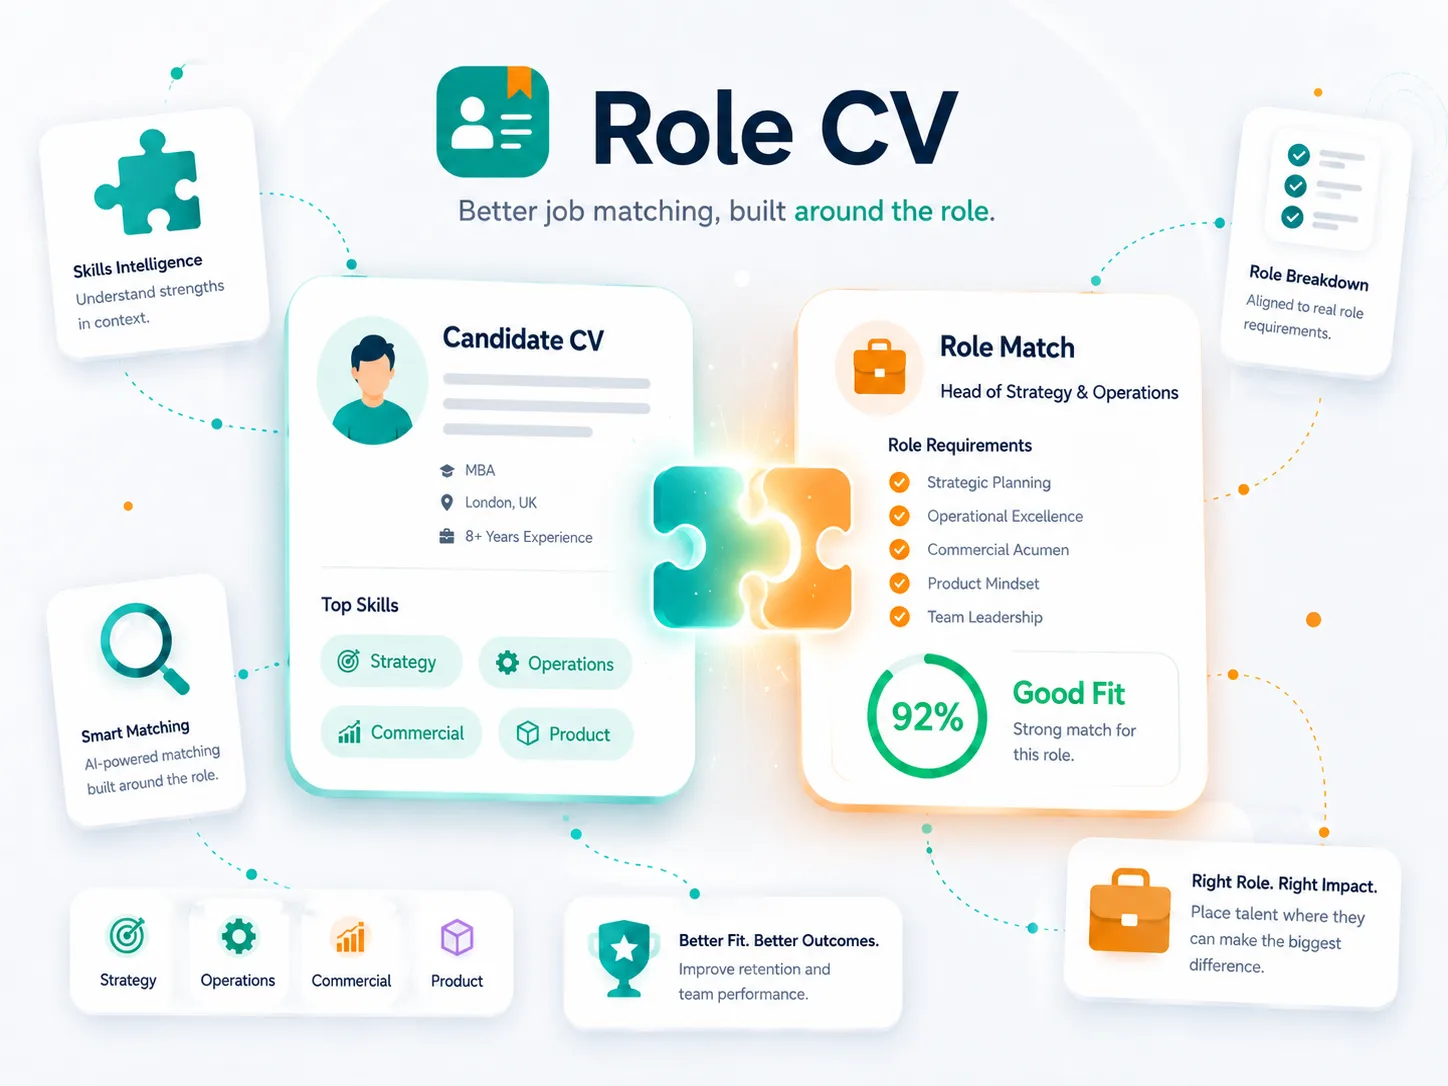
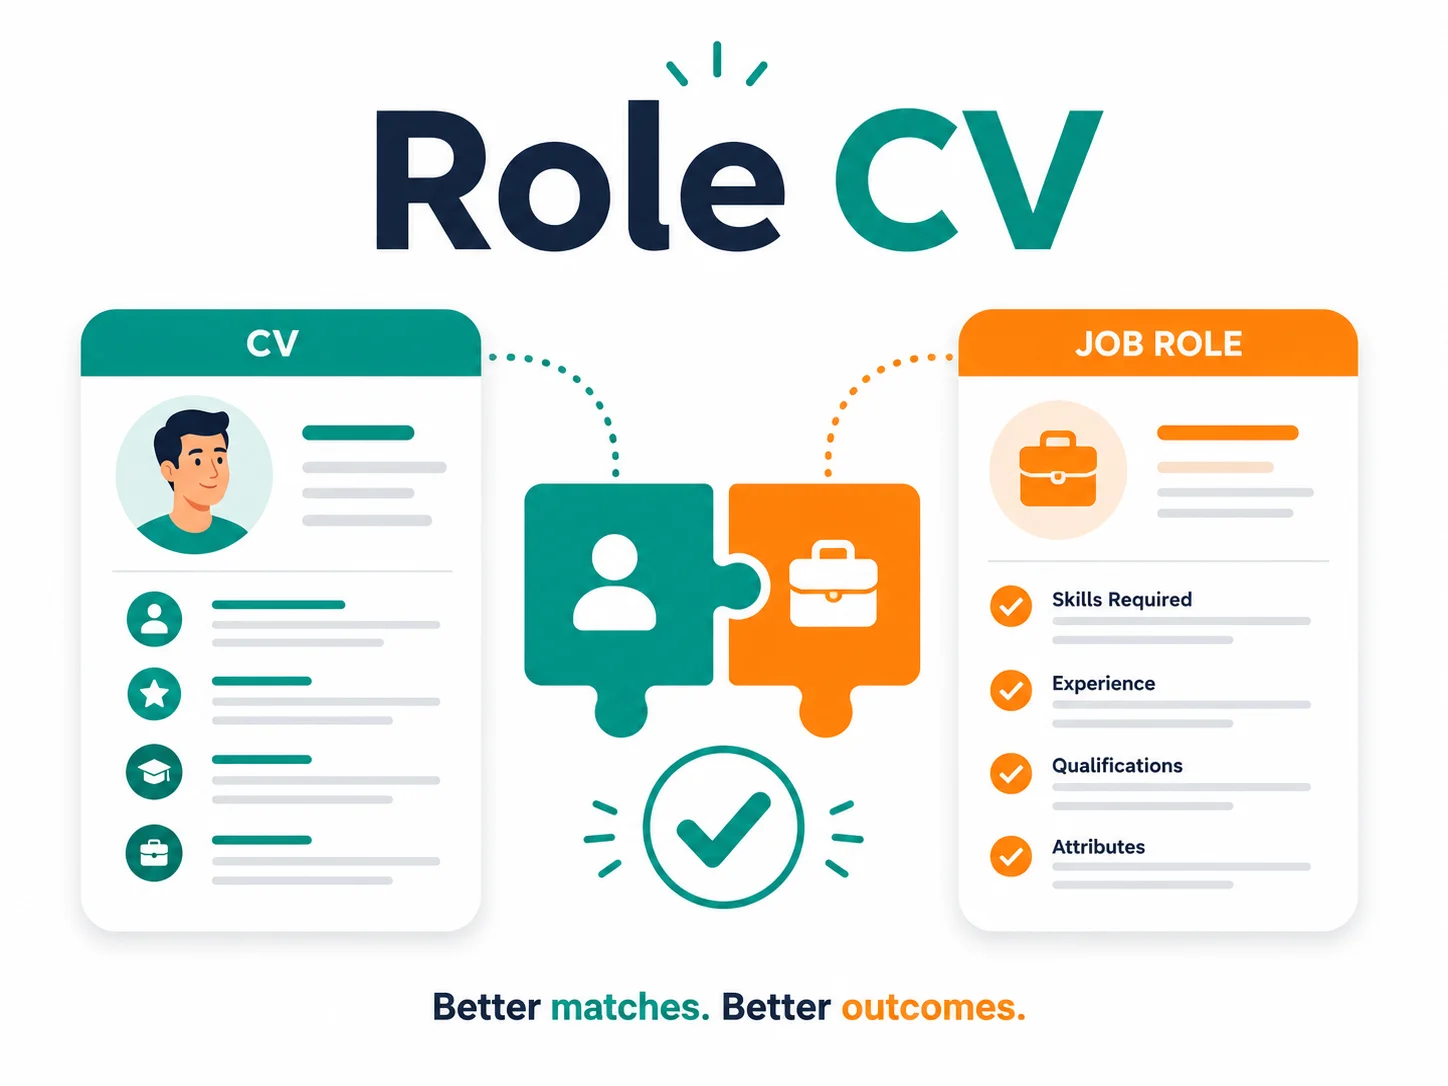
Update Role CV product graphic to v2
Replace the card source/webp with the updated marketing graphic and
refresh the alt text to describe its new content.

Claude-Session: https://claude.ai/code/session_01B2Cb8XmHSTvDLSJTSVWA4m

diff --git a/src/content/products/role-cv.ts b/src/content/products/role-cv.ts
@@ -21,7 +21,7 @@ export const roleCv: Product = {
   logoSrc: "/images/products/role-cv/icon.png",
   imageSrc: "/images/products/role-cv/role-cv-card.webp",
   imageAlt:
-    "A candidate CV card being matched against a Role Match card showing role requirements and a 92% Good Fit score, under the Role CV logo and the tagline 'Better job matching, built around the role.'",
+    "A CV card being matched against a Job Role card listing required skills, experience, qualifications and attributes, joined by interlocking puzzle pieces and a check mark, under the Role CV logo and the tagline 'Better matches. Better outcomes.'",
 
   featured: true,
   featuredExperiment: true,